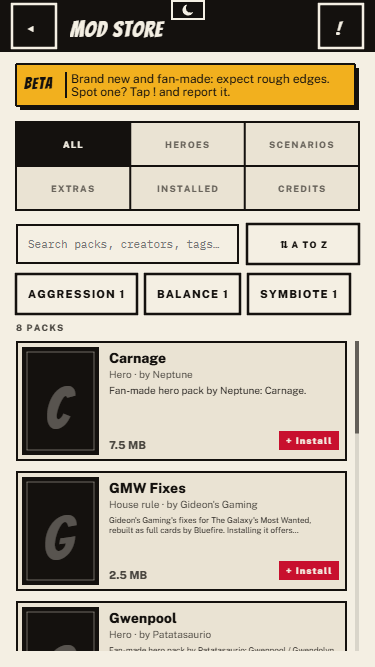
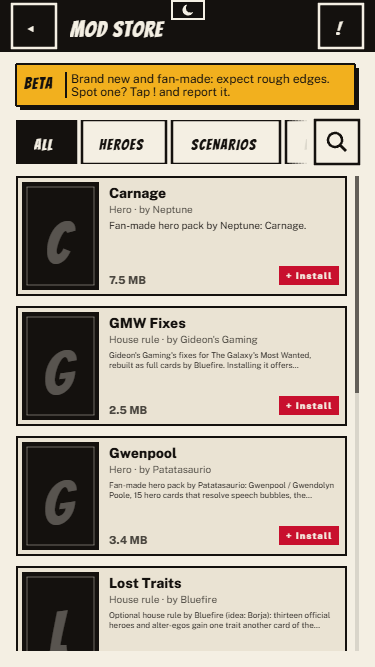
Mod Store on a phone: tabs in one sideways row, search and chips behind a magnifier (#734)
Phones are short on height: the tabs scroll sideways as Your stats' do, and the
search box, sort and tag chips stay folded away until the magnifier opens
them, or while a search, tag or creator narrows the list.

Changed region(s): [[0.0293, 0.1799, 0.968, 0.9895], [0.9093, 0.8696, 0.9387, 0.8996], [0.0293, 0.1799, 0.0587, 0.2099]]

diff --git a/packages/client/src/scenes/mod-store.ts b/packages/client/src/scenes/mod-store.ts
@@ -89,7 +89,9 @@ import {
   type ModStoreFilter,
 } from "../view/mod-store-browse.js";
 import { t } from "../i18n/translate.js";
-import { drawSearchField } from "./roster-panel.js";
+import { drawSearchField, drawSearchToggle } from "./roster-panel.js";
+import { McChipRail } from "../ui/chip-rail.js";
+import { RailScroll } from "../view/rail-scroll.js";
 import { bindTextFieldEscape } from "./text-field-escape.js";
 import { loadCatalog } from "../packs/catalog.js";
 import { refreshUnlocks } from "../progression/progression.js";
@@ -173,6 +175,11 @@ interface InstallState {
 
 export class ModStoreScene extends Phaser.Scene {
   #tab: ModStoreTab = "all";
+  /** A phone's search box, sort and chips are showing (`#drawPhoneBrowse`). */
+  #findersOpen = false;
+  /** A phone's tab row: where it was swiped to, kept across redraws. */
+  readonly #tabRail = new RailScroll();
+  #rails: McChipRail[] = [];
   /** The search box, tag chips, creator and sort (`view/mod-store-browse.ts`), kept across tabs and visits. */
   #filter: ModStoreFilter = EMPTY_FILTER;
   /** The search box: a DOM field kept across redraws (`scenes/seats.ts`'s pattern), so typing keeps its caret. */
@@ -553,6 +560,8 @@ export class ModStoreScene extends Phaser.Scene {
     this.#buttons = [];
     for (const tabs of this.#tabs) tabs.destroy();
     this.#tabs = [];
+    for (const rail of this.#rails) rail.destroy();
+    this.#rails = [];
     this.#list?.destroy();
     this.#list = null;
     this.#panel?.destroy();
@@ -693,7 +702,11 @@ export class ModStoreScene extends Phaser.Scene {
   ): void {
     const { width, height, phone, gutter, top } = frame;
     const captionBottom = this.#drawBetaCaption({ x: gutter, y: top + 12, width: width - gutter * 2 }, phone);
-    // Five tabs on a narrow phone (the iPhone SE) would cut their labels short: there they take two rows.
+    if (phone) {
+      this.#drawPhoneBrowse(frame, captionBottom + 10, stops, order);
+      return;
+    }
+    // Six tabs on a narrow window would cut their labels short: there they take two rows.
     const tabRows = modStoreTabRowsOf(width - gutter * 2);
     const tabRect: Rect = {
       x: gutter,
@@ -733,7 +746,77 @@ export class ModStoreScene extends Phaser.Scene {
       });
     });
 
-    let listTop = tabRect.y + tabRect.height + 14;
+    this.#drawBrowseBody(frame, tabRect.y + tabRect.height + 14, true, stops, order);
+  }
+
+  /**
+   * A phone's browse view (Quin, 2026-11-15: phones are short on height): the tabs as one sideways-scrolling row, as
+   * Your stats draws its tabs (`ui/chip-rail.ts`), with a magnifier at its end that shows the search box, sort and tag
+   * chips. They stay folded away until it is pressed, unless a search, tag or creator is narrowing the list.
+   */
+  #drawPhoneBrowse(
+    frame: { width: number; height: number; phone: boolean; gutter: number; top: number },
+    top: number,
+    stops: Map<string, FocusStop>,
+    order: string[],
+  ): void {
+    const { width, gutter } = frame;
+    const toggleSize = TAB_HEIGHT;
+    const finding = this.#tab !== "credits" && this.#status !== "loading";
+    const railWidth = width - gutter * 2 - (finding ? toggleSize + CHIP_GAP : 0);
+    const at = MOD_STORE_TABS.findIndex((tab) => tab.id === this.#tab);
+    const rail = new McChipRail(this, {
+      rect: { x: gutter, y: top, width: railWidth, height: TAB_HEIGHT },
+      chips: MOD_STORE_TABS.map((tab) => ({
+        id: tab.id,
+        text: modStoreTabLabel(tab).toUpperCase(),
+        selected: tab.id === this.#tab,
+        onClick: () => this.#select(tab.id),
+      })),
+      scroll: this.#tabRail,
+    });
+    this.#rails.push(rail);
+    rail.scrollIntoView(at);
+    MOD_STORE_TABS.forEach((tab, index) => {
+      stops.set(`tab:${tab.id}`, {
+        rect: () => rail.rectFor(index),
+        activate: () => this.#select(tab.id),
+        ensureVisible: () => rail.scrollIntoView(index),
+      });
+      order.push(`tab:${tab.id}`);
+    });
+    this.#obstacles.push({ x: gutter, y: top, width: width - gutter * 2, height: TAB_HEIGHT });
+    const open = finding && (this.#findersOpen || isFiltering(this.#filter));
+    if (finding) {
+      const toggleRect: Rect = { x: width - gutter - toggleSize, y: top, width: toggleSize, height: toggleSize };
+      drawSearchToggle(this, toggleRect, "finders-toggle", open, () => this.#toggleFinders(), this.#buttons, stops);
+      order.push("finders-toggle");
+    }
+    this.#drawBrowseBody(frame, top + TAB_HEIGHT + 12, open, stops, order);
+  }
+
+  /** The phone's magnifier: shows or folds away the search box, sort and chips. Folding clears what they narrowed. */
+  #toggleFinders(): void {
+    const open = this.#findersOpen || isFiltering(this.#filter);
+    this.#findersOpen = !open;
+    if (open) {
+      this.#searchInput?.setValue("");
+      this.#filter = { ...EMPTY_FILTER, sort: this.#filter.sort };
+    }
+    this.#draw();
+    if (!open) this.#searchInput?.focus();
+  }
+
+  /** Everything under the tabs: the offline notice, then the finders (when shown) and the grid, or Credits. */
+  #drawBrowseBody(
+    frame: { width: number; height: number; phone: boolean; gutter: number; top: number },
+    top: number,
+    finders: boolean,
+    stops: Map<string, FocusStop>,
+    order: string[],
+  ): void {
+    const { width, height, phone, gutter } = frame;
+    let listTop = top;
     if (this.#offline && this.#status === "ready") {
       const box: Rect = { x: gutter, y: listTop, width: width - gutter * 2, height: 34 };
       this.add.rectangle(box.x, box.y, box.width, box.height, surface.ink.hex).setOrigin(0, 0);
@@ -794,7 +877,9 @@ export class ModStoreScene extends Phaser.Scene {
       return;
     }
 
-    listTop = this.#drawFinders(tabTiles, { x: gutter, y: listTop, width: width - gutter * 2 }, phone, stops, order);
+    if (finders) {
+      listTop = this.#drawFinders(tabTiles, { x: gutter, y: listTop, width: width - gutter * 2 }, phone, stops, order);
+    }
     const tiles = filterTiles(tabTiles, this.#filter);
     const listRect = restRect(listTop);
     if (tiles.length === 0) {
